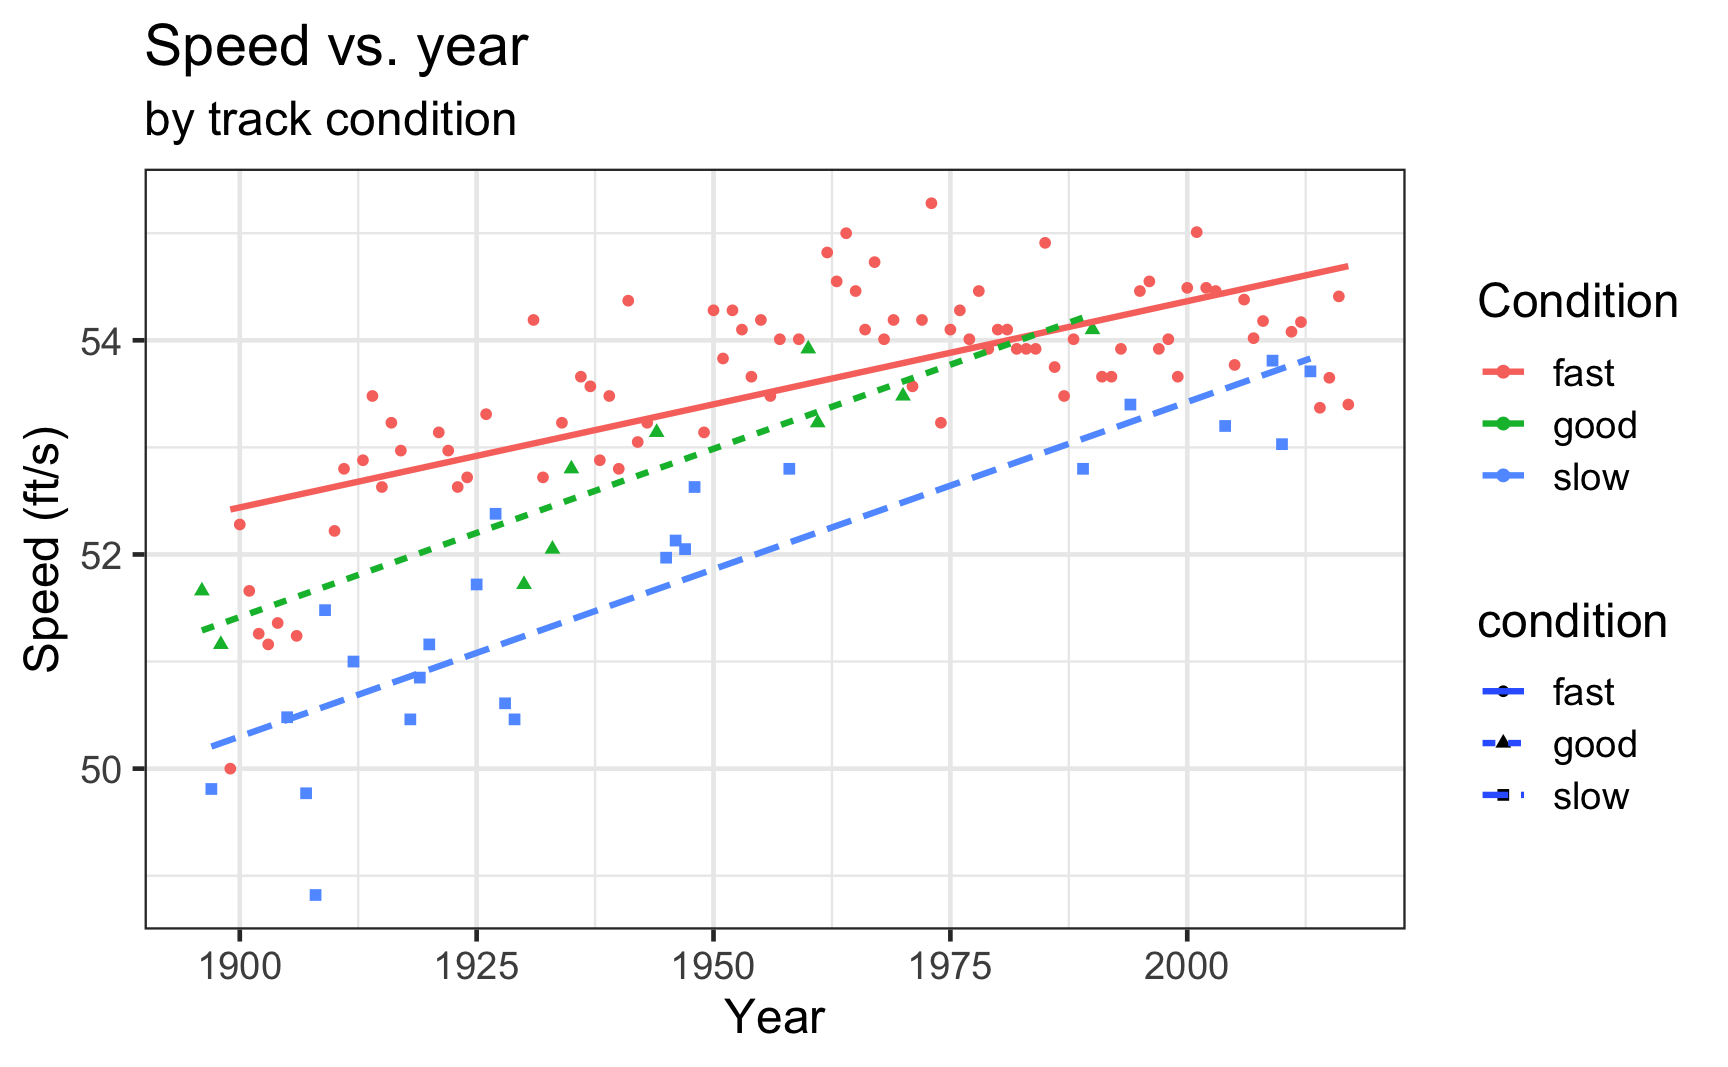
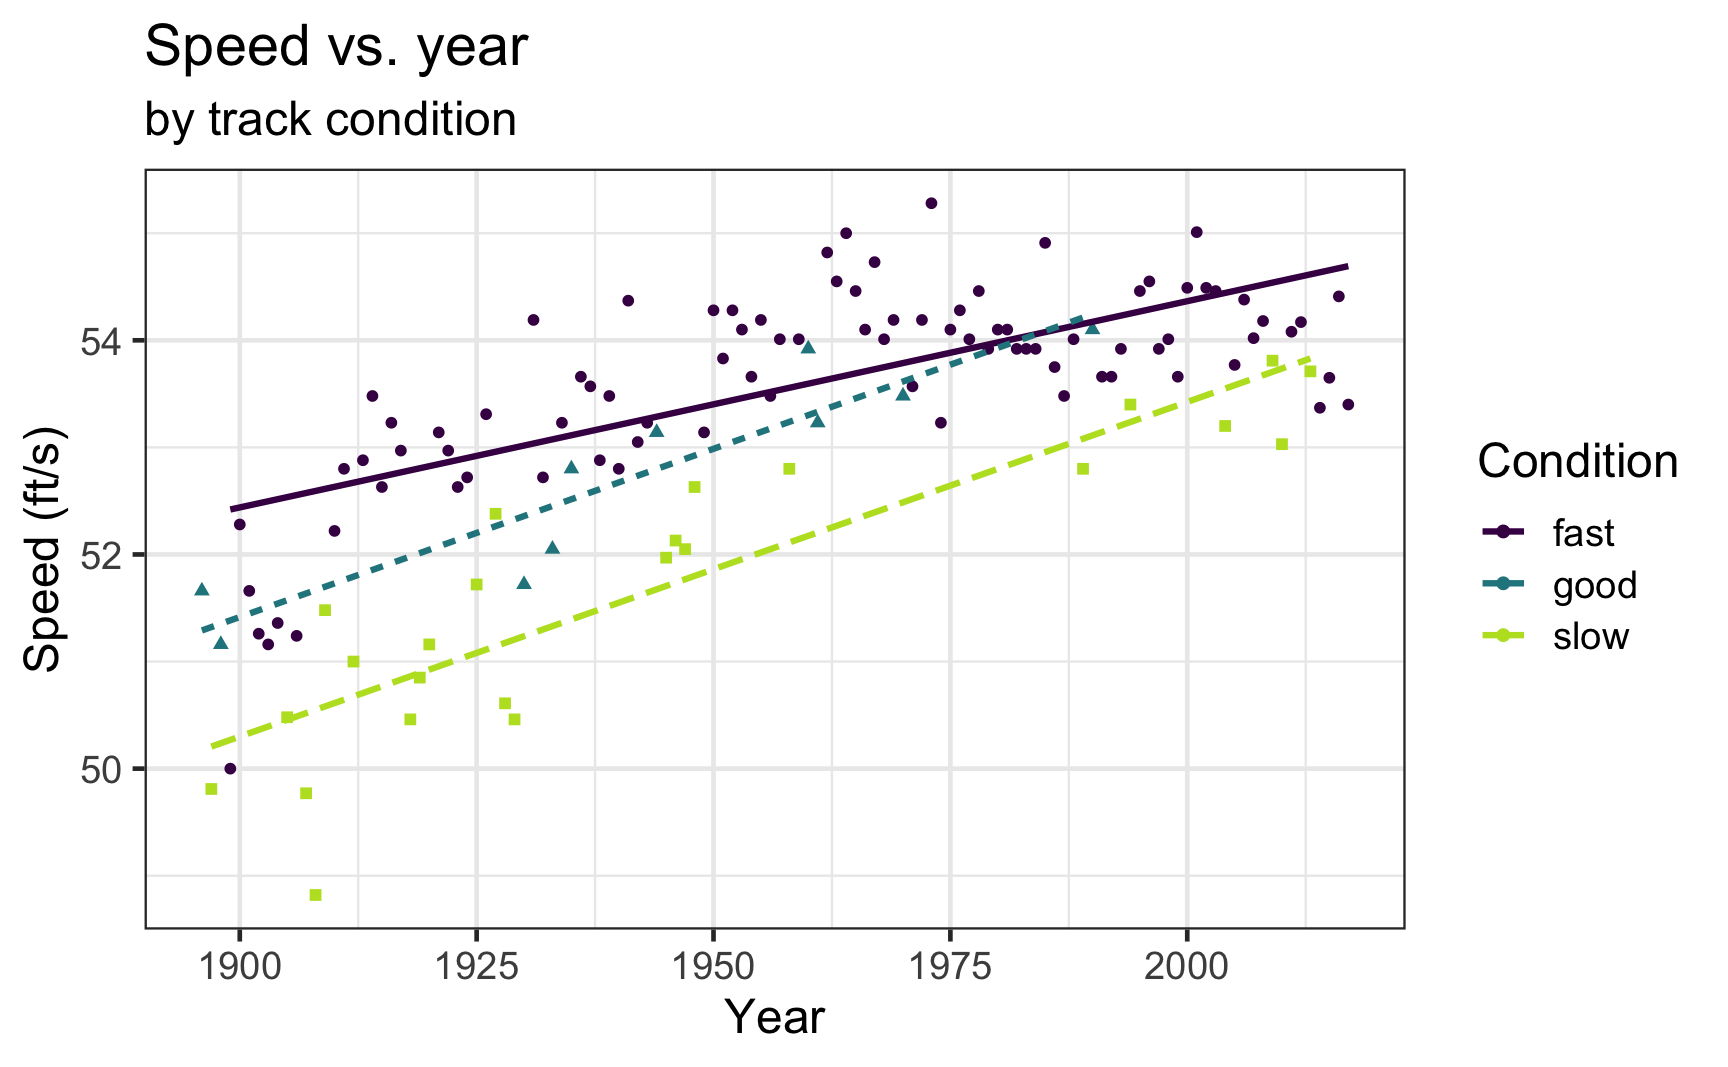
Updating Lecture 02 notes.

diff --git a/02-mlr-review-pt1/02-mlr-review-pt1.html b/02-mlr-review-pt1/02-mlr-review-pt1.html
@@ -207,9 +207,7 @@ p1 + (p2 / p3) +
 
 ---
 
-## Exploratory data analysis (EDA)
-
-**Bivariate EDA**
+## Bivariate EDA
 
 - scatterplots, 
 - boxplots, or stacked histograms
@@ -283,14 +281,16 @@ Assess interactions
 .small[
 
 ```r
-library(viridis)
+#library(viridis)
 ggplot(data = derby, aes(x = year, y = speed, color = condition, 
                          shape = condition, linetype = condition)) + 
   geom_point() + 
-  geom_smooth(method = "lm", se = FALSE, aes(lty = condition)) + 
+  geom_smooth(method = "lm", se = FALSE, aes(linetype = condition)) + 
   labs(x = "Year", y = "Speed (ft/s)", color = "Condition",
        title = "Speed vs. year", 
-       subtitle = "by track condition")
+       subtitle = "by track condition") +
+  guides(lty = FALSE, shape = FALSE) +
+  scale_color_viridis_d(end = 0.9)
 ```
 ]
 ]
@@ -399,7 +399,7 @@ derby &lt;- derby %&gt;%
 autoplot(model1Cent)
 ```
 
-&lt;img src="02-mlr-review-pt1_files/figure-html/unnamed-chunk-10-1.png" width="90%" /&gt;
+&lt;img src="02-mlr-review-pt1_files/figure-html/unnamed-chunk-10-1.png" width="60%" /&gt;
 
 &lt;font color = "red"&gt;POLL: What assumption appears to be violated?&lt;/font&gt;
 
@@ -476,7 +476,8 @@ glance(model2) %&gt;%
 
 --
 
-**Interpreting the effect of `year`**
+**Interpret the effect of `year` for the 5 most recent years (2013 - 2017)**
+
 
 ---
 
@@ -486,19 +487,21 @@ glance(model2) %&gt;%
 
 ---
 
-## Model 3: Interaction between `year` and `condition`
+## Model 3: Add interaction term
 
 .panelset.sideways[
 .panel[.panel-name[Output]
 
-|term          |  estimate| std.error| statistic| p.value|
-|:-------------|---------:|---------:|---------:|-------:|
-|(Intercept)   | -1410.529|   176.471|    -7.993|   0.000|
-|starters      |    -0.025|     0.014|    -1.859|   0.066|
-|year          |     1.472|     0.180|     8.169|   0.000|
-|I(year^2)     |     0.000|     0.000|    -8.041|   0.000|
-|conditiongood |    -0.477|     0.186|    -2.569|   0.011|
-|conditionslow |    -1.393|     0.131|   -10.670|   0.000|
+|term               |  estimate| std.error| statistic| p.value|
+|:------------------|---------:|---------:|---------:|-------:|
+|(Intercept)        | -1426.950|   175.339|    -8.138|   0.000|
+|starters           |    -0.023|     0.013|    -1.782|   0.077|
+|year               |     1.492|     0.179|     8.336|   0.000|
+|I(year^2)          |     0.000|     0.000|    -8.228|   0.000|
+|conditiongood      |     2.137|    12.202|     0.175|   0.861|
+|conditionslow      |   -23.817|     6.464|    -3.685|   0.000|
+|year:conditiongood |    -0.001|     0.006|    -0.219|   0.827|
+|year:conditionslow |     0.012|     0.003|     3.471|   0.001|
 
 **Model fit statistics**
 
@@ -511,7 +514,7 @@ glance(model2) %&gt;%
 .small[
 
 ```r
-model2 &lt;- lm(speed ~ starters + year + I(year^2) + condition +
+model3 &lt;- lm(speed ~ starters + year + I(year^2) + condition +
                year*condition, 
              data = derby)
 tidy(model3) %&gt;% kable(digits = 3)
@@ -526,28 +529,57 @@ glance(model3) %&gt;%
 
 ---
 
-## Interpreting interaction terms
+## Interpreting interactions
 
 &lt;font color = "red"&gt;ADD POLL&lt;/font&gt;
 
+.pull-left[
+
+|term               |  estimate|
+|:------------------|---------:|
+|(Intercept)        | -1426.950|
+|starters           |    -0.023|
+|year               |     1.492|
+|I(year^2)          |     0.000|
+|conditiongood      |     2.137|
+|conditionslow      |   -23.817|
+|year:conditiongood |    -0.001|
+|year:conditionslow |     0.012|
+]
+
+.pull-right[
 - Interpret coefficient of `\(year^2\)`
 
 - What is the effect of year on slow track conditions? 
 - What is the effect of year on fast track conditions? 
+]
 
-- Which is most meaningful in practice?
+&lt;font color = "red"&gt;Which is most meaningful in practice?&lt;/font&gt;
 
 ---
 
-## Which model should we use?
+## Which model would you select?
 
-- What stats can we use? 
+**Model 1: Main effects**
 
-## Model 1 stats + limitations
 
-## Model 2 stats + limitations
+| r.squared| adj.r.squared|     AIC|     BIC|
+|---------:|-------------:|-------:|-------:|
+|      0.73|         0.721| 259.478| 276.302|
 
-## Model 3 stats + limitations 
+**Model 2: Add `\(year^2\)`**
+
+
+| r.squared| adj.r.squared|     AIC|     BIC|
+|---------:|-------------:|-------:|-------:|
+|     0.827|         0.819| 207.429| 227.057|
+
+**Model 3: Add interaction term**
+
+
+| r.squared| adj.r.squared|     AIC|     BIC|
+|---------:|-------------:|-------:|-------:|
+|     0.844|         0.834| 198.716| 223.953|
 
 ---
 
